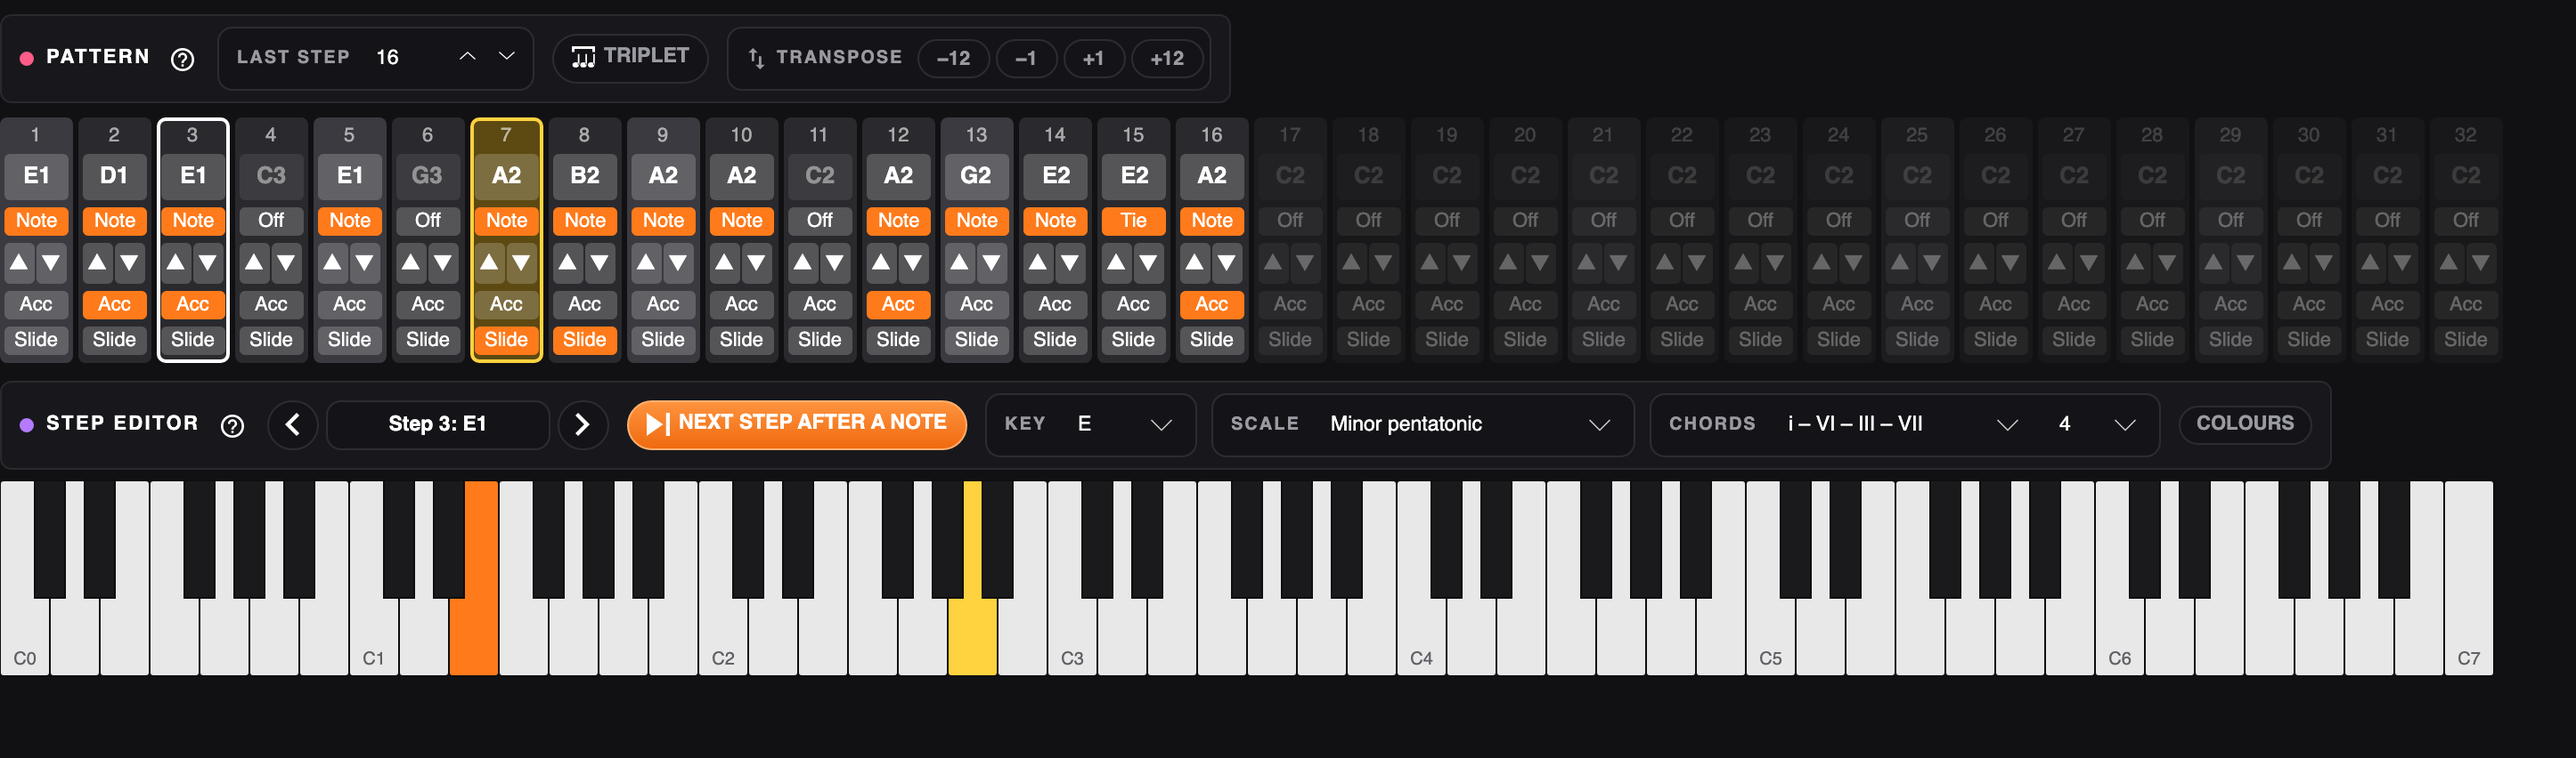
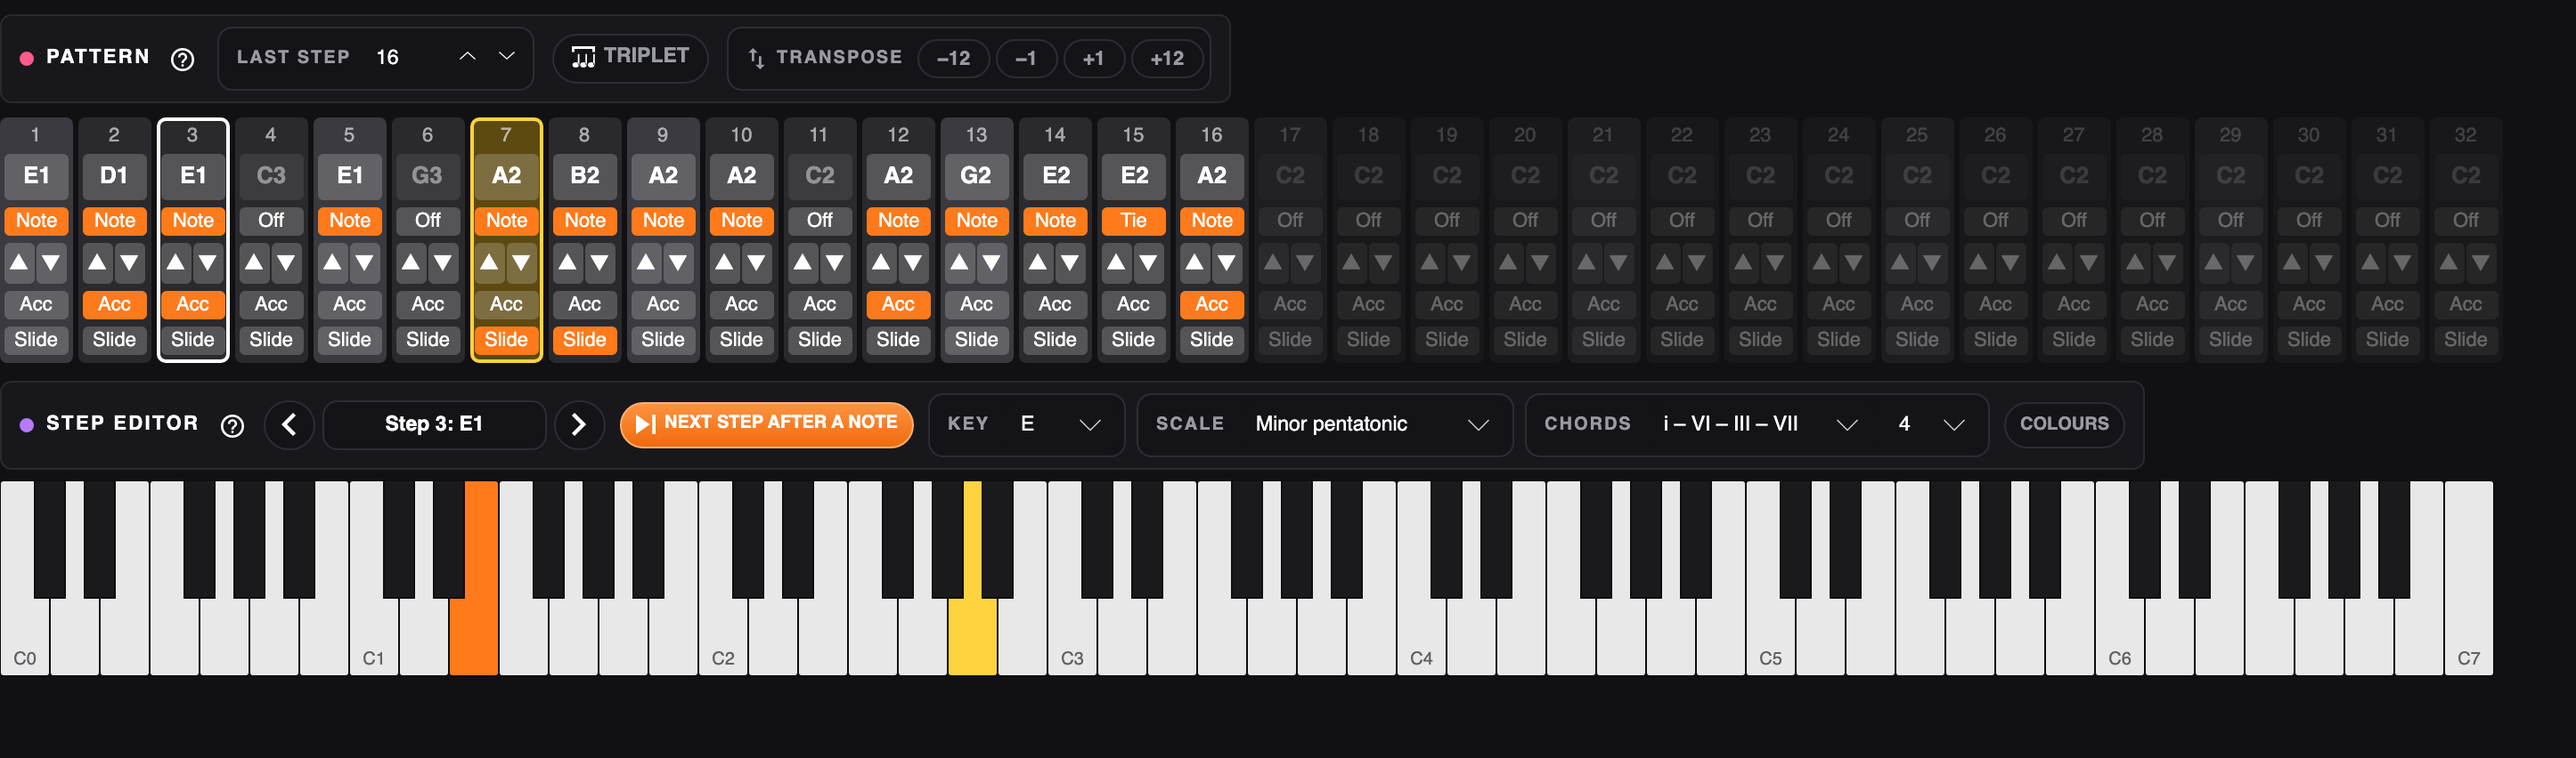
Bass step editor: smaller chips so the row fits above the keyboard
"Next step after a note" and "Colours" use a compact chip (10 px font,
26 px high), and the Key / Scale / Chords combos, the TONES readout and
the spacing are a little narrower, so the step editor row stays within
the keyboard's width even with Colours on (it was wider and made the
tab scroll sideways). A test checks the width with the TONES box shown.

diff --git a/tests/T8.Editor.Tests/BassLayoutTests.cs b/tests/T8.Editor.Tests/BassLayoutTests.cs
@@ -1,0 +1,33 @@
+using Avalonia.Controls;
+using Avalonia.Headless.XUnit;
+using Avalonia.VisualTree;
+using T8.Editor.ViewModels;
+using T8.Editor.Views;
+using T8.Tests.Shared;
+
+namespace T8.Editor.Tests;
+
+public class BassLayoutTests
+{
+    [AvaloniaFact]
+    public void The_step_editor_row_is_no_wider_than_the_keyboard_even_with_colours_on()
+    {
+        var vm = new MainWindowViewModel(FakePortProvider.WithT8(), new FakeDialogService(), driveCandidates: () => []);
+        vm.OpenFolder(TestPaths.Backup);
+        var window = new MainWindow { DataContext = vm, Width = 1470, Height = 890 }; // a MacBook Air window
+        window.Show();
+        window.FindControl<TabControl>("Tabs")!.SelectedIndex = MainWindowViewModel.BassTab;
+        vm.Bass.ShowColours = true; // shows the TONES box too
+        vm.Bass.SelectedStep = vm.Bass.Steps[0];
+        window.UpdateLayout();
+
+        var panel = window.GetVisualDescendants().OfType<Border>().Single(b => b.Name == "StepEditorPanel");
+        var keyboard = window.GetVisualDescendants().OfType<PianoKeyboard>().Single();
+        Assert.True(window.GetVisualDescendants().OfType<Border>().Single(b => b.Name == "ChordBox").IsEffectivelyVisible);
+        // Keep some room to spare: the system font on a real Mac is a little wider than in the tests.
+        Assert.True(panel.Bounds.Width <= keyboard.Bounds.Width - 40, $"step editor {panel.Bounds.Width:0} px, keyboard {keyboard.Bounds.Width:0} px");
+        Assert.Contains("compact", window.GetVisualDescendants().OfType<Avalonia.Controls.Primitives.ToggleButton>().Single(t => t.Name == "AdvanceCheck").Classes);
+        window.Close();
+        vm.Dispose();
+    }
+}
